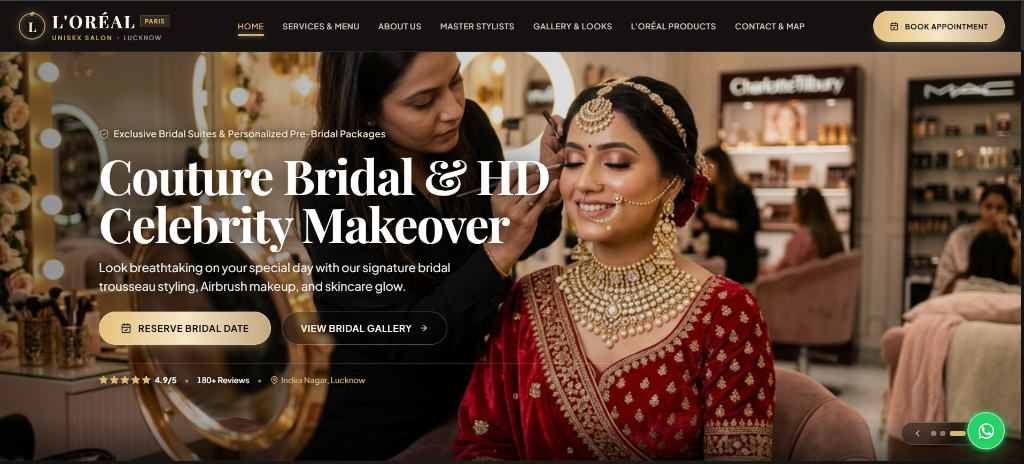
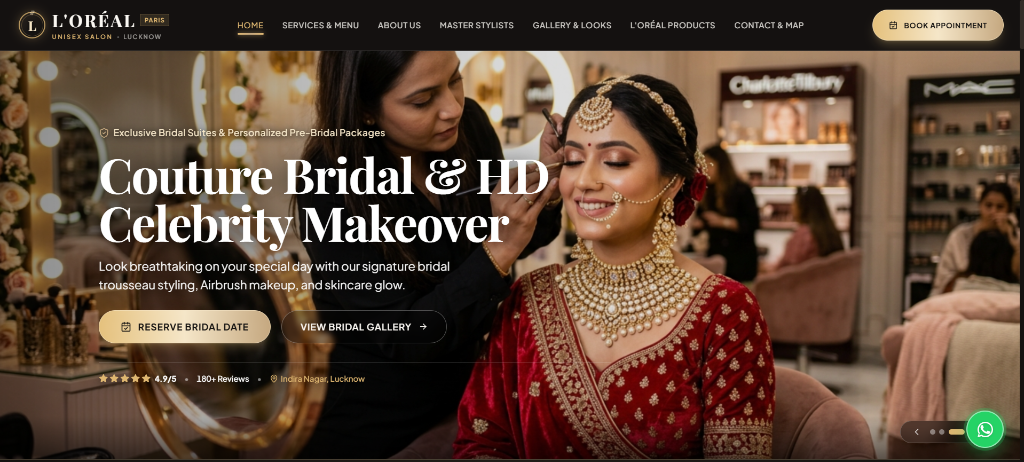
add project

diff --git a/src/components/Projects.jsx b/src/components/Projects.jsx
@@ -99,9 +99,7 @@ export default function Projects({ onSelectProject }) {
           .project-card-image-wrapper {
             position: relative;
             width: 100%;
-            aspect-ratio: 16 / 9;
-            min-height: 160px;
-            max-height: 220px;
+            aspect-ratio: 2.12 / 1;
             overflow: hidden;
             border-top-left-radius: 0 !important;
             border-top-right-radius: 0 !important;
@@ -112,13 +110,13 @@ export default function Projects({ onSelectProject }) {
             width: 100%;
             height: 100%;
             object-fit: cover;
-            object-position: top center;
+            object-position: center center;
             border-top-left-radius: 0 !important;
             border-top-right-radius: 0 !important;
             transition: transform 0.45s ease;
           }
           .project-card-glass:hover .project-card-image {
-            transform: scale(1.04);
+            transform: scale(1.03);
           }
           .project-card-body {
             padding: 1.35rem 1.45rem 1.15rem 1.45rem;

diff --git a/src/components/ProjectModal.jsx b/src/components/ProjectModal.jsx
@@ -71,9 +71,8 @@ export default function ProjectModal({ project, onClose }) {
           }
           .project-modal-image-box {
             width: 100%;
-            aspect-ratio: 16 / 9;
-            max-height: 240px;
-            min-height: 150px;
+            aspect-ratio: 2.12 / 1;
+            max-height: 340px;
             border-radius: 0.75rem;
             overflow: hidden;
             margin-bottom: 1.25rem;
@@ -83,8 +82,9 @@ export default function ProjectModal({ project, onClose }) {
           .project-modal-image {
             width: 100%;
             height: 100%;
-            object-fit: cover;
-            object-position: top center;
+            object-fit: contain;
+            background: #060913;
+            object-position: center;
           }
           .project-modal-title {
             font-size: clamp(1.2rem, 3.5vw, 1.55rem);
